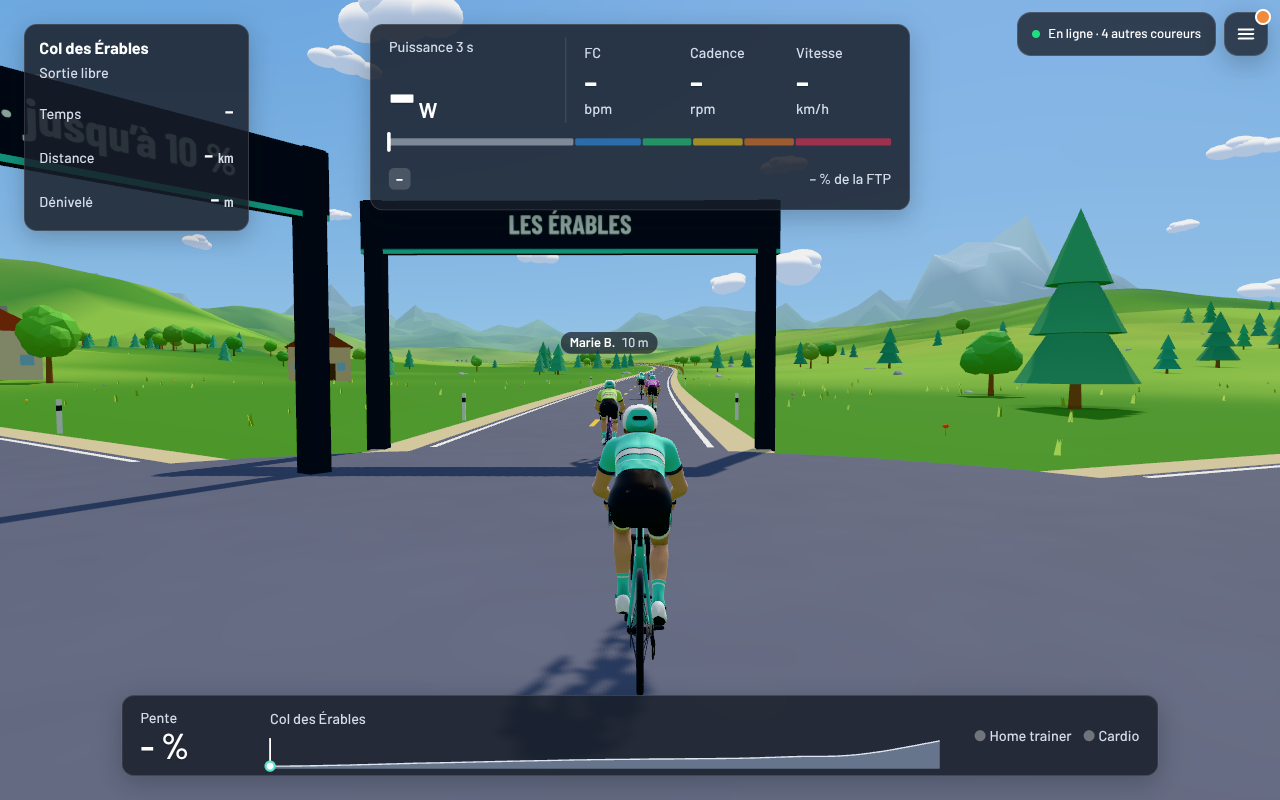
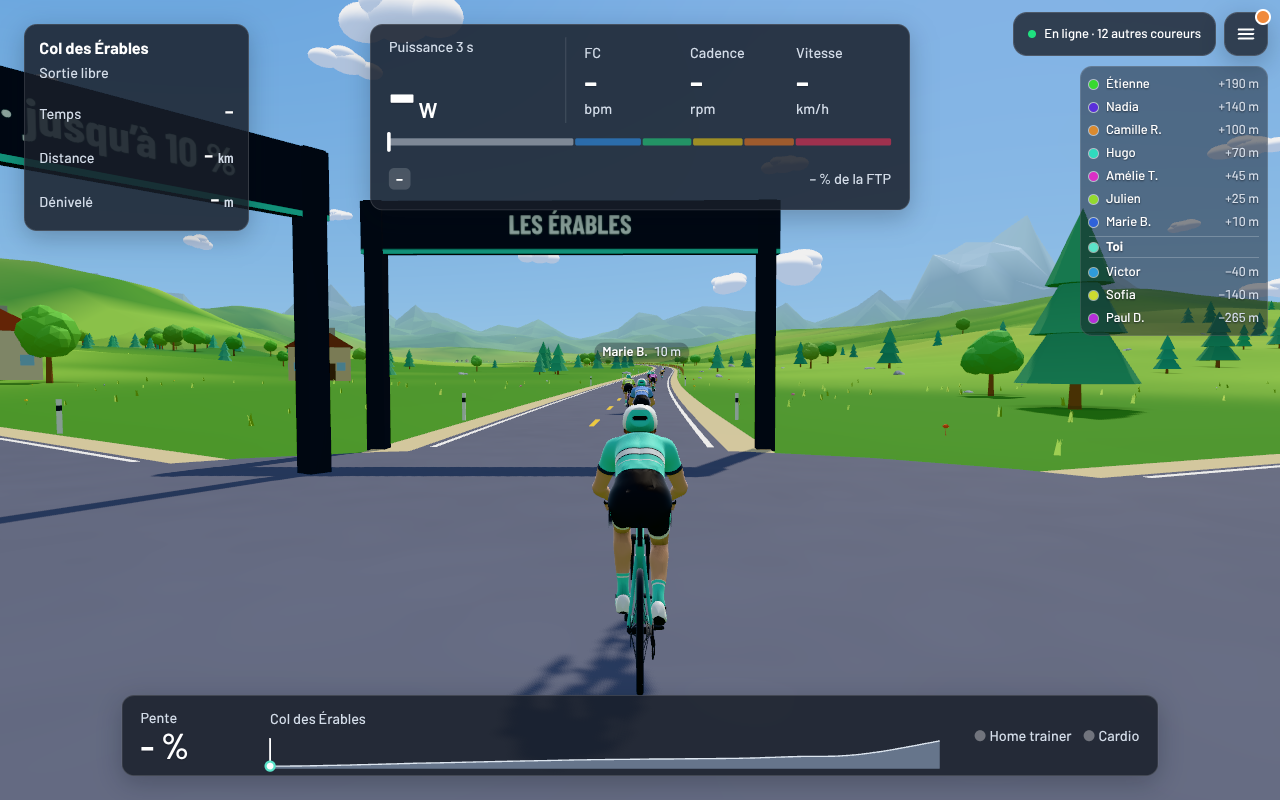
Sortie : encart des coureurs proches (7 devant, 3 derrière), noms plus discrets
Encart au bord droit : jusqu'à 7 coureurs devant, le joueur, 3 derrière, avec la couleur de leur maillot et l'écart
signé (calcul pur et testé dans others-model.ts). Sur téléphone couché il se place à gauche de la colonne de boutons.
Les étiquettes de nom passent à 34 % d'opacité, avec une ombre portée du texte. Vérifié dans la page (WebGL2 sans GPU,
iPhone 13 paysage 844 × 390 et ordinateur 1280 × 800) avec 12 coureurs immobiles.

Claude-Session: https://claude.ai/code/session_01Fve4RrG8r9RJRgLhDurVGg

Changed region(s): [[0.7812, 0.0312, 1.0, 0.4375], [0.4375, 0.4062, 0.5312, 0.5625], [0.4375, 0.5625, 0.4688, 0.5938]]

diff --git a/src/ui/sortie.css b/src/ui/sortie.css
@@ -153,11 +153,12 @@ html[data-notch='left'] .ride { --edge-r: 12px; }
 .rider-tags { position: absolute; inset: 0; overflow: hidden; pointer-events: none; z-index: 1; }
 .rider-tag {
   position: absolute; left: 0; top: 0; display: flex; align-items: baseline; gap: 6px; white-space: nowrap;
-  padding: 3px 9px; border-radius: 999px; background: rgb(24 30 40 / .72); color: #fff;
+  padding: 2px 8px; border-radius: 999px; background: rgb(24 30 40 / .34); color: #fff;
   font: 600 .8125rem/1.2 Barlow, system-ui, sans-serif; will-change: transform;
+  text-shadow: 0 1px 2px rgb(5 10 20 / .75); /* le fond est léger : l'ombre garde le nom lisible sur le ciel */
 }
-.rider-tag-dist { color: #D3DCE8; font-weight: 500; font-variant-numeric: tabular-nums; }
-.rider-tag.far { opacity: .7; }
+.rider-tag-dist { color: #E3EAF3; font-weight: 500; font-variant-numeric: tabular-nums; }
+.rider-tag.far { opacity: .6; }
 /* Pastille de la salle, à gauche du bouton du menu : dit tout de suite si les autres nous voient. */
 .ride-crowd {
   position: absolute; z-index: 3; top: var(--edge-t); right: calc(var(--edge-r) + 52px); height: 44px; box-sizing: border-box;
@@ -167,3 +168,27 @@ html[data-notch='left'] .ride { --edge-r: 12px; }
 }
 .ride-crowd::before { content: ''; flex: none; width: 8px; height: 8px; border-radius: 50%; background: #1FE07F; }
 .ride-crowd[data-state='off']::before { background: #F08A3C; }
+
+/*
+ * Coureurs proches : jusqu'à 7 devant, le joueur, 3 derrière, de l'avant vers l'arrière. Sous le bouton du menu, au bord
+ * droit ; sur téléphone couché, à gauche de la colonne de boutons. Verre léger : l'encart reste discret.
+ */
+.ride-near {
+  position: absolute; z-index: 2; top: calc(var(--edge-t) + 54px); right: var(--edge-r); width: 188px; box-sizing: border-box;
+  padding: 6px 8px; border-radius: 12px; border: 1px solid rgb(255 255 255 / .12); background: rgb(24 30 40 / .5);
+  color: #fff; font: 500 .8125rem/1.2 Barlow, system-ui, sans-serif; pointer-events: none;
+}
+.ride-near[hidden] { display: none; }
+.rn-list { list-style: none; margin: 0; padding: 0; display: flex; flex-direction: column; gap: 1px; }
+.rn-row { display: flex; align-items: center; gap: 8px; min-height: 22px; text-shadow: 0 1px 2px rgb(5 10 20 / .6); }
+.rn-dot { flex: none; width: 9px; height: 9px; border-radius: 50%; background: #5BE3C9; box-shadow: 0 0 0 1px rgb(255 255 255 / .55); }
+.rn-name { flex: 1; min-width: 0; overflow: hidden; text-overflow: ellipsis; white-space: nowrap; }
+.rn-gap { flex: none; color: #D3DCE8; font-variant-numeric: tabular-nums; }
+/* Le joueur : repère au milieu de la liste, un trait au-dessus et au-dessous. */
+.rn-me { font-weight: 700; margin: 2px 0; padding: 2px 0; border-block: 1px solid rgb(255 255 255 / .22); }
+.rn-me .rn-dot { background: #5BE3C9; }
+@media (pointer: coarse) and (orientation: landscape) and (max-height: 600px) {
+  .ride-near { top: calc(var(--edge-t) + 46px); right: calc(var(--edge-r) + 52px); width: 168px; padding: 4px 8px; }
+  .rn-row { min-height: 19px; }
+  .ride-crowd { height: 40px; }
+}

diff --git a/src/ui/near-riders.ts b/src/ui/near-riders.ts
@@ -1,0 +1,78 @@
+import { formatGap, hueOf, type Nearby, type NearbyRiders } from '../render/others-model';
+
+/** Rafraîchissement de l'encart, en ms : les écarts bougent doucement, inutile de toucher au DOM à chaque image. */
+const EVERY_MS = 250;
+
+/** Couleur du point d'un coureur : celle de son maillot dans la vue 3D. */
+const dotColor = (slot: number) => `hsl(${Math.round(hueOf(slot) * 360)} 70% 52%)`;
+
+interface Row {
+  el: HTMLElement;
+  name: HTMLElement;
+  gap: HTMLElement;
+}
+
+/**
+ * Encart des coureurs proches (jusqu'à 7 devant, 3 derrière) : de l'avant vers l'arrière, le joueur au milieu. Un
+ * élément par ligne, gardé tant que le coureur reste à la même place de la liste. Les noms viennent d'autres joueurs :
+ * ils entrent par `textContent`, jamais comme HTML.
+ */
+export class NearRiders {
+  private readonly list = document.createElement('ol');
+  private readonly rows: Row[] = [];
+  private signature = '';
+  private last = -Infinity;
+
+  constructor(private readonly host: HTMLElement) {
+    this.list.className = 'rn-list';
+    host.append(this.list);
+  }
+
+  set(n: NearbyRiders, now = performance.now()): void {
+    if (now - this.last < EVERY_MS) return;
+    this.last = now;
+    if (!n.ahead.length && !n.behind.length) return this.clear();
+    const lines: (Nearby | 'me')[] = [...n.ahead, 'me', ...n.behind];
+    const signature = lines.map((l) => (l === 'me' ? 'me' : l.slot)).join(',');
+    if (signature !== this.signature) this.rebuild(lines, signature);
+    lines.forEach((l, i) => {
+      const row = this.rows[i]!;
+      if (l === 'me') return;
+      if (row.name.textContent !== l.name) row.name.textContent = l.name;
+      const g = formatGap(l.gapM);
+      if (row.gap.textContent !== g) row.gap.textContent = g;
+    });
+    this.host.hidden = false;
+  }
+
+  clear(): void {
+    this.host.hidden = true;
+    this.signature = '';
+    this.list.replaceChildren();
+    this.rows.length = 0;
+  }
+
+  private rebuild(lines: (Nearby | 'me')[], signature: string) {
+    this.signature = signature;
+    this.rows.length = 0;
+    const items = lines.map((l) => {
+      const el = document.createElement('li');
+      const dot = document.createElement('i');
+      const name = document.createElement('span');
+      const gap = document.createElement('span');
+      el.className = l === 'me' ? 'rn-row rn-me' : 'rn-row';
+      dot.className = 'rn-dot';
+      name.className = 'rn-name';
+      gap.className = 'rn-gap';
+      if (l === 'me') {
+        name.textContent = 'Toi';
+      } else {
+        dot.style.background = dotColor(l.slot);
+      }
+      el.append(dot, name, gap);
+      this.rows.push({ el, name, gap });
+      return el;
+    });
+    this.list.replaceChildren(...items);
+  }
+}

diff --git a/src/render/others-model.ts b/src/render/others-model.ts
@@ -37,3 +37,68 @@ export function declutter<T extends TagBox>(tags: readonly T[]): T[] {
   }
   return kept;
 }
+
+const GOLDEN = 0.618033988749895;
+
+/** Teinte (0 à 1) du maillot d'un coureur : espacées par le nombre d'or pour que deux places voisines se distinguent. */
+export function hueOf(slot: number): number {
+  return (slot * GOLDEN) % 1;
+}
+
+/** Coureurs montrés par l'encart de proximité : devant et derrière le joueur. */
+export const AHEAD_SHOWN = 7;
+export const BEHIND_SHOWN = 3;
+/** Au-delà de cette distance, un coureur n'est plus « à proximité », en m. */
+export const NEARBY_RANGE_M = 1500;
+
+export interface Nearby {
+  slot: number;
+  name: string;
+  /** Écart au joueur, en m : positif devant, négatif derrière. */
+  gapM: number;
+}
+
+export interface NearbyRiders {
+  /** Du plus éloigné au plus proche : la liste se lit de l'avant vers le joueur. */
+  ahead: Nearby[];
+  /** Du plus proche au plus éloigné. */
+  behind: Nearby[];
+}
+
+/**
+ * Les coureurs proches du joueur : les `ahead` plus proches devant lui et les `behind` plus proches derrière. « Devant »
+ * se décide par le cap du joueur (un coureur sur une autre route compte selon qu'il est devant ou derrière son regard),
+ * l'écart est la distance à vol d'oiseau, signée. Les pistes des coureurs n'ont pas de repère commun : on ne peut pas
+ * soustraire leurs distances de trajet.
+ */
+export function nearby(
+  self: { x: number; z: number; heading: number },
+  riders: readonly { slot: number; name: string; x: number; z: number }[],
+  ahead = AHEAD_SHOWN,
+  behind = BEHIND_SHOWN,
+  rangeM = NEARBY_RANGE_M,
+): NearbyRiders {
+  const fx = Math.cos(self.heading);
+  const fz = Math.sin(self.heading);
+  const front: Nearby[] = [];
+  const back: Nearby[] = [];
+  for (const r of riders) {
+    const dx = r.x - self.x;
+    const dz = r.z - self.z;
+    const dist = Math.hypot(dx, dz);
+    if (dist > rangeM) continue;
+    if (dx * fx + dz * fz >= 0) front.push({ slot: r.slot, name: r.name, gapM: dist });
+    else back.push({ slot: r.slot, name: r.name, gapM: -dist });
+  }
+  front.sort((a, b) => a.gapM - b.gapM);
+  back.sort((a, b) => b.gapM - a.gapM);
+  return { ahead: front.slice(0, ahead).reverse(), behind: back.slice(0, behind) };
+}
+
+/** Écart lisible et stable : par 5 m sous 1 km (pas de chiffres qui clignotent), puis en km. */
+export function formatGap(gapM: number): string {
+  const sign = gapM < 0 ? '−' : '+';
+  const a = Math.abs(gapM);
+  if (a < 1000) return `${sign}${Math.round(a / 5) * 5} m`;
+  return `${sign}${(a / 1000).toFixed(1).replace('.', ',')} km`;
+}

diff --git a/src/render/others-model.test.ts b/src/render/others-model.test.ts
@@ -36,3 +36,64 @@ describe('declutter', () => {
     expect(declutter(many)).toHaveLength(MAX_TAGS);
   });
 });
+
+import { AHEAD_SHOWN, BEHIND_SHOWN, formatGap, hueOf, nearby } from './others-model';
+
+describe('hueOf', () => {
+  it('donne des teintes différentes aux places voisines', () => {
+    const hues = Array.from({ length: 12 }, (_, i) => hueOf(i));
+    for (let i = 1; i < hues.length; i++) expect(Math.abs(hues[i]! - hues[i - 1]!)).toBeGreaterThan(0.1);
+    for (const h of hues) expect(h).toBeGreaterThanOrEqual(0);
+    for (const h of hues) expect(h).toBeLessThan(1);
+  });
+});
+
+describe('nearby', () => {
+  // Joueur en (0, 0), cap 0 : l'avant est vers +x.
+  const self = { x: 0, z: 0, heading: 0 };
+  const at = (slot: number, x: number, z = 0) => ({ slot, name: `C${slot}`, x, z });
+
+  it('sépare devant et derrière selon le cap', () => {
+    const n = nearby(self, [at(1, 50), at(2, -30), at(3, 10)]);
+    expect(n.ahead.map((r) => r.slot)).toEqual([1, 3]); // du plus éloigné au plus proche
+    expect(n.behind.map((r) => r.slot)).toEqual([2]);
+    expect(n.ahead[0]!.gapM).toBe(50);
+    expect(n.behind[0]!.gapM).toBe(-30);
+  });
+
+  it(`garde les ${AHEAD_SHOWN} plus proches devant et les ${BEHIND_SHOWN} plus proches derrière`, () => {
+    const riders = [
+      ...Array.from({ length: 12 }, (_, i) => at(i, 10 * (i + 1))),
+      ...Array.from({ length: 6 }, (_, i) => at(100 + i, -10 * (i + 1))),
+    ];
+    const n = nearby(self, riders);
+    expect(n.ahead).toHaveLength(AHEAD_SHOWN);
+    expect(n.behind).toHaveLength(BEHIND_SHOWN);
+    expect(n.ahead.map((r) => r.gapM)).toEqual([70, 60, 50, 40, 30, 20, 10]);
+    expect(n.behind.map((r) => r.gapM)).toEqual([-10, -20, -30]);
+  });
+
+  it('suit le cap : cap vers −x, un coureur en +x est derrière', () => {
+    const n = nearby({ x: 0, z: 0, heading: Math.PI }, [at(1, 40)]);
+    expect(n.ahead).toHaveLength(0);
+    expect(n.behind[0]!.gapM).toBe(-40);
+  });
+
+  it('ignore les coureurs hors de portée', () => {
+    expect(nearby(self, [at(1, 5000), at(2, -5000)])).toEqual({ ahead: [], behind: [] });
+  });
+
+  it('renvoie des listes vides sans personne', () => {
+    expect(nearby(self, [])).toEqual({ ahead: [], behind: [] });
+  });
+});
+
+describe('formatGap', () => {
+  it('signe, arrondit par 5 m et passe en km', () => {
+    expect(formatGap(42)).toBe('+40 m');
+    expect(formatGap(-13)).toBe('−15 m');
+    expect(formatGap(998)).toBe('+1000 m');
+    expect(formatGap(1234)).toBe('+1,2 km');
+    expect(formatGap(-2500)).toBe('−2,5 km');
+  });
+});

diff --git a/src/render/ride-view.ts b/src/render/ride-view.ts
@@ -5,6 +5,7 @@ import { ambianceFor, type Mood } from './ambiance';
 import { loadRiderAssets, type RiderAssets } from './assets';
 import { Rider } from './rider';
 import { OthersLayer, type RiderTag } from './others';
+import { nearby, type NearbyRiders } from './others-model';
 import type { RemoteRiderView } from '../net/world-client';
 import { Background, BackgroundStopped } from './background';
 import { buildWorldSteps, CAMERA_FAR_M, WORLD_HIGH, WORLD_LOW, type World } from './world';
@@ -38,6 +39,8 @@ export interface RenderStats {
   drawCalls: number;
 }
 
+/** Calcul des coureurs proches, en ms. */
+const NEARBY_EVERY_MS = 250;
 const FRAME_WINDOW = 240;
 const STATS_EVERY_MS = 500;
 /** Plafond du pas de temps d'animation : un onglet qui reprend ne doit pas téléporter le cycliste. */
@@ -66,6 +69,9 @@ export class RideView {
   onLost?: (loss: GpuLoss) => void;
   /** Noms des autres coureurs proches avec leur place à l'écran, à chaque image (pixels CSS du canevas). */
   onTags?: (tags: RiderTag[]) => void;
+  /** Coureurs proches devant et derrière le joueur, quatre fois par seconde. */
+  onNearby?: (n: NearbyRiders) => void;
+  private lastNearby = 0;
   private lost?: GpuLoss;
   /** Reste du relief et du décor, complété en tâche de fond après la première image ; arrêté avec la vue. */
   private readonly fill = new Background();
@@ -366,7 +372,12 @@ export class RideView {
     this.rider.group.rotateZ(this.roll * Math.sin(this.swayPhase));
     this.rider.animate(dt, this.state.cadenceRpm, speedMs);
     this.gates.update(dt, this.dist);
-    const others = this.others.place(dt, this.othersSource(), this.p);
+    const riders = this.othersSource();
+    const others = this.others.place(dt, riders, this.p);
+    if (this.onNearby && now - this.lastNearby >= NEARBY_EVERY_MS) {
+      this.lastNearby = now;
+      this.onNearby(nearby({ x: this.p.x, z: this.p.z, heading: this.heading }, riders.map((r) => ({ slot: r.slot, name: r.name, x: r.point.x, z: r.point.z }))));
+    }
     // L'ambiance suit le parcours, qui peut changer sur l'accueil pendant que la vue tourne.
     const mood = this.journey.course?.ambiance ?? 'day';
     if (mood !== this.mood) {

diff --git a/src/main.ts b/src/main.ts
@@ -44,6 +44,7 @@ import { setupCourseMap } from './ui/course-map';
 import { setupAccount } from './ui/account-chip';
 import { WorldClient } from './net/world-client';
 import { crowdLine, RiderTags } from './ui/rider-tags';
+import { NearRiders } from './ui/near-riders';
 import { controlModes } from './ui/radar-model';
 import { ClimbCounter, PowerAverage } from './ui/hud-model';
 import type { RideSnapshot } from './sim/ride';
@@ -1166,6 +1167,7 @@ async function buildView() {
   v.onLost = onGpuLost;
   v.setOthers(() => world.riders());
   v.onTags = (tags) => riderTags.set(tags);
+  v.onNearby = (n) => nearRiders.set(n);
   v.onStats = (s) => {
     $('view-stats').textContent =
       `${s.backend === 'webgpu' ? 'WebGPU' : 'WebGL2'} · ${s.fps.toFixed(0)} i/s · ` +
@@ -1249,6 +1251,7 @@ const account = setupAccount({
   },
 });
 const riderTags = new RiderTags($('rider-tags'));
+const nearRiders = new NearRiders($('near'));
 const crowd = $('crowd');
 /** Pastille de l'écran Sortie : visible seulement avec un compte connecté à la salle. */
 function showCrowd() {
@@ -1256,7 +1259,10 @@ function showCrowd() {
   crowd.hidden = s === 'offline' || s === 'signed-out' || s === 'name-pending';
   crowd.dataset.state = s === 'online' ? 'on' : 'off';
   crowd.textContent = s === 'online' ? crowdLine(world.population) : s === 'connecting' ? 'Connexion…' : s === 'replaced' ? 'Connecté sur un autre appareil' : s === 'outdated' ? 'Mise à jour : recharger la page' : 'Connexion perdue, nouvel essai…';
-  if (s !== 'online') riderTags.clear();
+  if (s !== 'online') {
+    riderTags.clear();
+    nearRiders.clear();
+  }
 }
 world.onStatus = (s) => {
   account.setWorld(s, world.population);

diff --git a/src/render/others.ts b/src/render/others.ts
@@ -3,7 +3,7 @@ import type { RemoteRiderView } from '../net/world-client';
 import type { RiderAssets } from './assets';
 import { Rider } from './rider';
 import type { Kit } from './region-material';
-import { declutter, laneOf } from './others-model';
+import { declutter, hueOf, laneOf } from './others-model';
 import { forwardOf, sideOf, type WorldLayout } from './world-layout';
 
 export { laneOf } from './others-model';
@@ -18,7 +18,6 @@ export const TAG_WITHIN_M = 140;
 const HEADING_RATE = 5;
 /** Hauteur du nom au-dessus de la route, en m. */
 const TAG_HEIGHT_M = 2;
-const GOLDEN = 0.618033988749895;
 
 /** Nom d'un coureur et sa place à l'écran, pour le HUD (pixels CSS du canevas). */
 export interface RiderTag {
@@ -38,7 +37,7 @@ const wrapPi = (a: number) => {
 
 /** Maillot d'un coureur : une teinte par place, espacées par le nombre d'or pour que deux voisins se distinguent. */
 export function kitFor(slot: number): Kit {
-  const hue = (slot * GOLDEN) % 1;
+  const hue = hueOf(slot);
   const jersey = new THREE.Color().setHSL(hue, 0.7, 0.52).getHex();
   const frame = new THREE.Color().setHSL((hue + 0.5) % 1, 0.55, 0.42).getHex();
   return { jersey: { color: jersey }, frame: { color: frame } };

diff --git a/index.html b/index.html
@@ -318,6 +318,7 @@
           </div>
           <div id="rider-tags" class="rider-tags" aria-hidden="true"></div>
           <div id="crowd" class="ride-crowd" role="status" hidden></div>
+          <aside id="near" class="ride-near" aria-label="Coureurs à proximité" hidden></aside>
           <div id="hud"></div>
           <div id="view-stats" class="view-stats" hidden>rendu : initialisation…</div>
           <button id="ride-menu-open" class="ride-menu-open" type="button" aria-haspopup="dialog" aria-controls="ride-menu" aria-label="Menu de la sortie">

diff --git a/docs/roadmap.md b/docs/roadmap.md
@@ -23,7 +23,7 @@ Mise à jour du 16 novembre 2026. Référence : [analyse technique](analyse-tech
 | Export FIT | Fait ; bouton essayé dans la vraie page avec le trainer simulé, fichier relu avec le décodeur de Garmin | Fichier non encore ouvert dans Strava ni Garmin Connect |
 | Envoi à Strava | Fait via un relais dans le serveur de dev ; abonnement requis pour créer l'application | **Non** : jamais lancé avec de vrais identifiants |
 | Tapis, capteur de foulée (seconde vague) | Non commencé | — |
-| Multijoueur, backend, comptes | Commencé (16 novembre 2026). **Étape 1, positions partagées** : chaque coureur annonce sa route, son sens, son abscisse et la route suivante dès qu'elle est verrouillée ([`Journey.locate`](../src/sim/journey.ts)) ; les autres recollent ses routes en une piste continue avec les mêmes virages arrondis ([`remote-track.ts`](../src/sim/remote-track.ts)) et lissent sa course avec 200 ms de retard ([`interpolation.ts`](../src/net/interpolation.ts)) ; protocole binaire de 19 octets par coureur, sans fréquence cardiaque ([`protocol.ts`](../src/net/protocol.ts)). **Étape 2, comptes et salle** : connexion par Strava seule, un compte par athlète, nom affiché validé par le coureur ([`accounts.ts`](../src/server/accounts.ts), migration 0003) ; salle en Durable Object Cloudflare qui relaie sans simuler ([`room.ts`](../src/server/room.ts), [`world-room.ts`](../worker/world-room.ts)) ; client avec reconnexion ([`world-client.ts`](../src/net/world-client.ts)) ; robots de test (`npm run bots`). Application Strava passée à 10 athlètes. **Étape 3a, compte dans l'application** : bouton officiel « Connect with Strava » en haut à droite des écrans, pastille du coureur en ligne, choix du nom, mode sans compte (seul, export FIT) ; l'envoi à Strava part sur le compte de chaque coureur, le relais du serveur Vite disparaît ([compte](design/compte.md)). **Étape 3b, autres coureurs dans la vue** (17 novembre 2026) : les 16 plus proches (moins de 220 m) sont dessinés comme le joueur, sur le relief dessiné, avec cap, pente, cadence et maillot de leur teinte ([`others.ts`](../src/render/others.ts)) ; nom et distance au-dessus d'eux, sans chevauchement, six au plus ([`others-model.ts`](../src/render/others-model.ts), [`rider-tags.ts`](../src/ui/rider-tags.ts)) ; pastille « En ligne · N autres coureurs » sur la Sortie. Reste : aspiration, classement, mesure de la charge avec beaucoup de coureurs | Tests, et `wrangler dev` avec un vrai Durable Object (robots). Vérifié dans la page (Chromium sans GPU, WebGL2, iPhone 13 paysage 844 × 390 et ordinateur 1280 × 800) avec des robots immobiles et en mouvement. **Non** : vraie connexion Strava, déploiement, rendu sur un vrai GPU et un vrai téléphone |
+| Multijoueur, backend, comptes | Commencé (16 novembre 2026). **Étape 1, positions partagées** : chaque coureur annonce sa route, son sens, son abscisse et la route suivante dès qu'elle est verrouillée ([`Journey.locate`](../src/sim/journey.ts)) ; les autres recollent ses routes en une piste continue avec les mêmes virages arrondis ([`remote-track.ts`](../src/sim/remote-track.ts)) et lissent sa course avec 200 ms de retard ([`interpolation.ts`](../src/net/interpolation.ts)) ; protocole binaire de 19 octets par coureur, sans fréquence cardiaque ([`protocol.ts`](../src/net/protocol.ts)). **Étape 2, comptes et salle** : connexion par Strava seule, un compte par athlète, nom affiché validé par le coureur ([`accounts.ts`](../src/server/accounts.ts), migration 0003) ; salle en Durable Object Cloudflare qui relaie sans simuler ([`room.ts`](../src/server/room.ts), [`world-room.ts`](../worker/world-room.ts)) ; client avec reconnexion ([`world-client.ts`](../src/net/world-client.ts)) ; robots de test (`npm run bots`). Application Strava passée à 10 athlètes. **Étape 3a, compte dans l'application** : bouton officiel « Connect with Strava » en haut à droite des écrans, pastille du coureur en ligne, choix du nom, mode sans compte (seul, export FIT) ; l'envoi à Strava part sur le compte de chaque coureur, le relais du serveur Vite disparaît ([compte](design/compte.md)). **Étape 3b, autres coureurs dans la vue** (17 novembre 2026) : les 16 plus proches (moins de 220 m) sont dessinés comme le joueur, sur le relief dessiné, avec cap, pente, cadence et maillot de leur teinte ([`others.ts`](../src/render/others.ts)) ; nom et distance au-dessus d'eux, sans chevauchement, six au plus ([`others-model.ts`](../src/render/others-model.ts), [`rider-tags.ts`](../src/ui/rider-tags.ts)) ; pastille « En ligne · N autres coureurs » et encart des coureurs proches (7 devant, 3 derrière) sur la Sortie. Reste : aspiration, classement, mesure de la charge avec beaucoup de coureurs | Tests, et `wrangler dev` avec un vrai Durable Object (robots). Vérifié dans la page (Chromium sans GPU, WebGL2, iPhone 13 paysage 844 × 390 et ordinateur 1280 × 800) avec des robots immobiles et en mouvement. **Non** : vraie connexion Strava, déploiement, rendu sur un vrai GPU et un vrai téléphone |
 | Coquille iOS (Capacitor) | Non commencée | — |
 | Séances structurées (.zwo, .erg, .mrc) | Fait : lecture des trois formats, déroulement minuté, ERG piloté par la séance, profil coloré par zone, intensité réglable | Vérifié dans la page avec le trainer simulé ; **pas encore sur le KICKR** |
 | Éditeur de séances | Fait (étape 1 de la maquette « A·2 + A·3 ») : profil sur fond de zones avec info-bulle, barre du bloc sélectionné, réglages du bloc sur une ligne avec ±5 %, cadence en option, temps par zone, écarts avant/après, annuler/rétablir, raccourcis clavier. Glisser-déposer des blocs fait par la poignée de la barre du bloc, sur le profil (12 novembre 2026). Étagère de blocs préfaits et « Mes blocs » ([docs/design/seances.md](design/seances.md)), 12 novembre 2026. Reste : régler puissance et durée en tirant sur le profil. Le 12 novembre 2026, l'écran est refondu : bibliothèque et éditeur sur un seul écran plein écran, comme l'accueil ([docs/design/seances.md](design/seances.md)) | Vérifié dans la vraie page (Chrome) |

diff --git a/docs/design/compte.md b/docs/design/compte.md
@@ -34,6 +34,8 @@ Référence permanente du compte : connexion avec Strava, nom montré aux autres
 
 - Code : [`src/render/others.ts`](../../src/render/others.ts) (coureurs dans la scène), [`others-model.ts`](../../src/render/others-model.ts) (voie, noms sans chevauchement), [`src/ui/rider-tags.ts`](../../src/ui/rider-tags.ts) (étiquettes et pastille).
 - Les 16 plus proches, à moins de 220 m, sont dessinés ; leur nom et leur distance s'affichent jusqu'à 140 m, six étiquettes au plus, le plus proche gardant la sienne quand deux se recouvrent. Teinte du maillot et du vélo selon la place dans la salle.
+- Encart des coureurs proches, au bord droit sous le bouton du menu (sur téléphone couché, à gauche de la colonne de boutons) : jusqu'à **7 coureurs devant**, « Toi », puis **3 derrière**, de l'avant vers l'arrière, avec un point de la couleur de leur maillot et l'écart à vol d'oiseau (+45 m, −140 m ; par 5 m, puis en km). « Devant » se décide par le cap du joueur ; portée 1,5 km. Les pistes des coureurs n'ont pas de repère commun : un écart de trajet n'existe pas. Verre léger, sans toucher. Code : [`near-riders.ts`](../../src/ui/near-riders.ts), calcul dans `others-model.ts` (`nearby`).
+- Étiquettes de nom : fond à 34 % d'opacité et ombre portée du texte, pour rester discrètes (72 % avant le 17 novembre).
 - Pastille à gauche du bouton du menu : « En ligne · N autres coureurs », cachée sans compte. Texte de 13 px (le minimum du projet est 12 px).
 
 ## Captures
@@ -47,8 +49,8 @@ Développement local, 16 novembre 2026 (connexion de développement et trois rob
 | Connecté, ordinateur | ![](captures/compte-connecte-ordinateur.png) |
 | Connecté, téléphone couché (écran Appareils) | ![](captures/compte-connecte-telephone.png) |
 | Menu du compte | ![](captures/compte-menu.png) |
-| Autres coureurs sur la Sortie, ordinateur (quatre robots immobiles) | ![](captures/compte-autres-coureurs-ordinateur.png) |
-| Autres coureurs sur la Sortie, téléphone couché 844 × 390 (robots en mouvement) | ![](captures/compte-autres-coureurs-telephone.png) |
+| Autres coureurs sur la Sortie, ordinateur (12 robots immobiles : 8 devant, 4 derrière) | ![](captures/compte-autres-coureurs-ordinateur.png) |
+| Autres coureurs sur la Sortie, téléphone couché 844 × 390 (mêmes robots) | ![](captures/compte-autres-coureurs-telephone.png) |
 | Boîte du nom | ![](captures/compte-nom.png) |
 
 ## Développement
